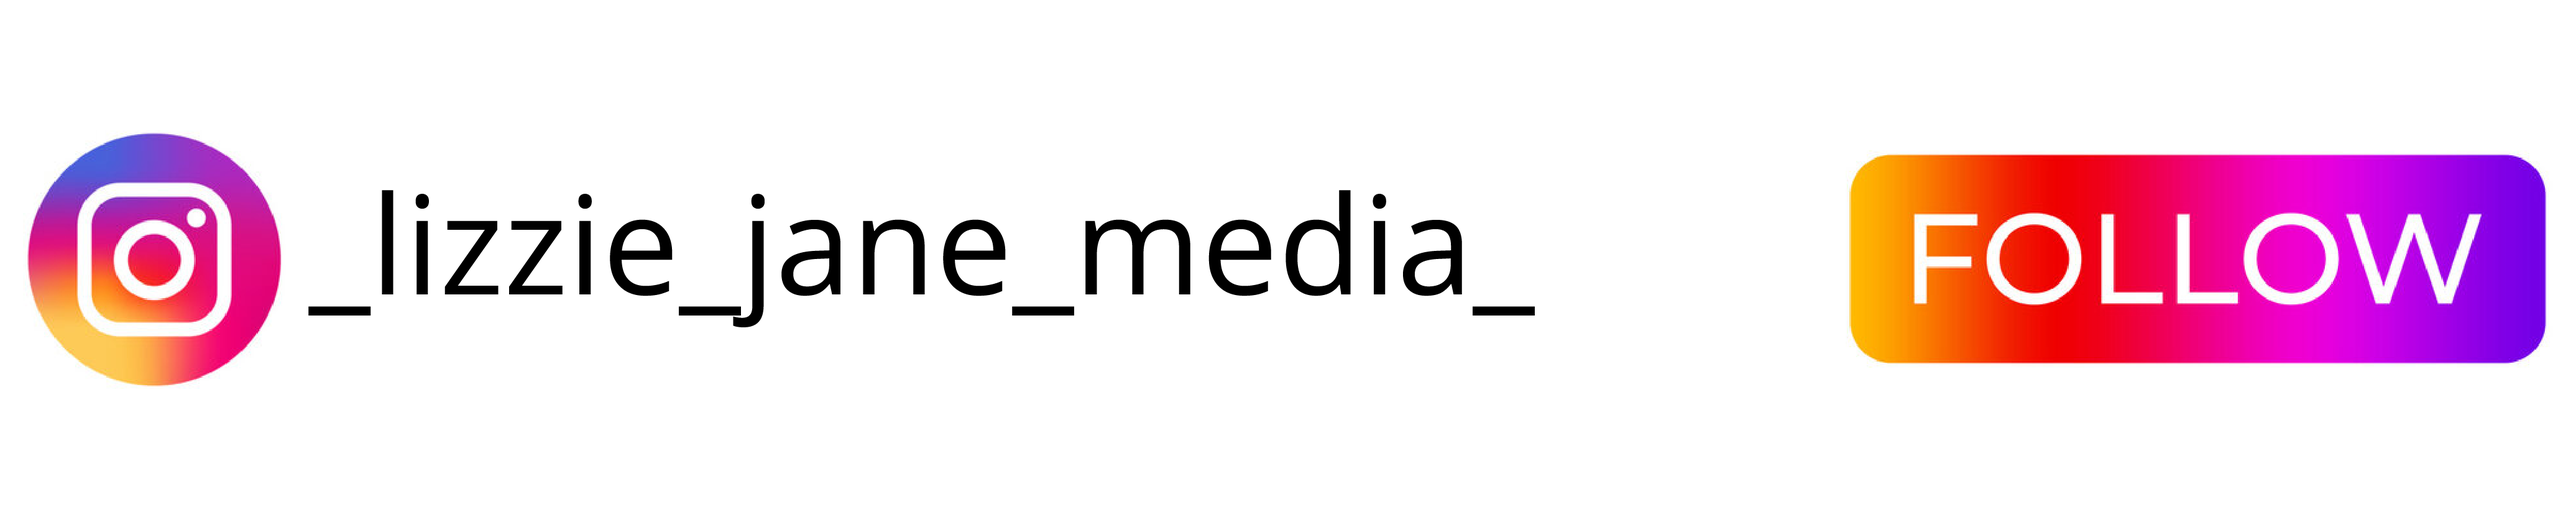
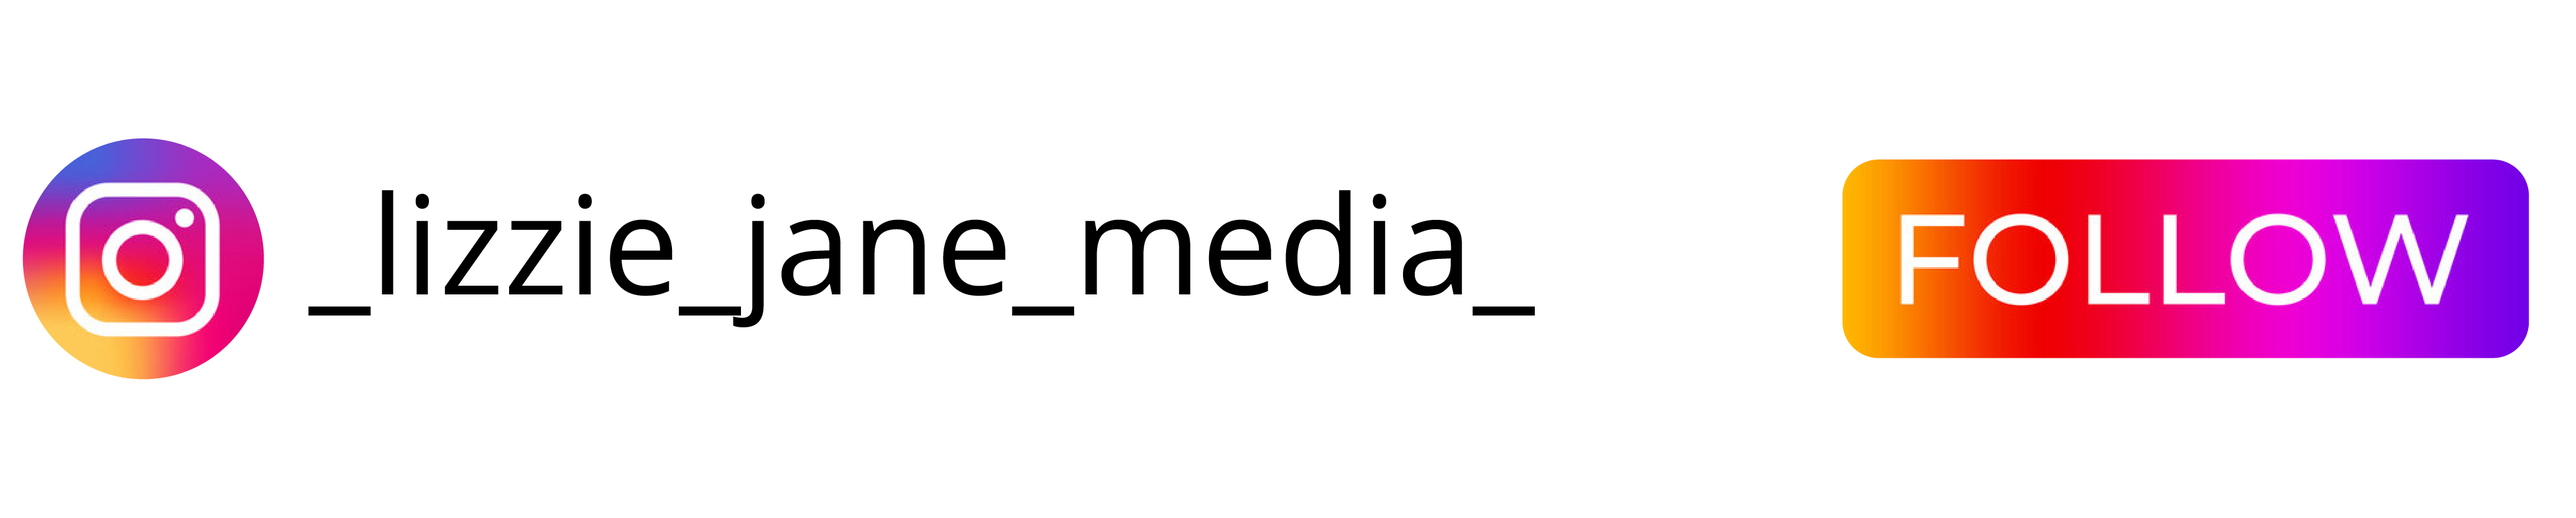
e

Changed region(s): [[0.716, 0.2806, 0.9961, 0.717], [0.0, 0.2494, 0.1245, 0.7482]]

diff --git a/index.html b/index.html
@@ -77,7 +77,8 @@
 
 	<div class="section section-contact m-md-5 px-md-5">
 		<div class="container">
-			<a href="https://www.instagram.com/_lizzie_jane_media_"><img src="images/insta.png" alt="Instagram"></a>
+			<h2  class="instagram-heading"> Follow me on Instagram!</h2>
+			<a href="https://www.instagram.com/_lizzie_jane_media_"><img src="images/insta.png" alt="Instagram" class="img-fluid mb-3" style="width:600px;"></a>
 				<!-- SnapWidget -->
 <script src="https://snapwidget.com/js/snapwidget.js"></script>
 <iframe src="https://snapwidget.com/embed/1094666" class="snapwidget-widget" allowtransparency="true" frameborder="0" scrolling="no" style="border:none; overflow:hidden;  width:100%; " title="Posts from Instagram"></iframe>

diff --git a/css/style.css b/css/style.css
@@ -9836,3 +9836,16 @@ a {
       .site-footer .social li a:hover {
         background: #000;
         color: #fff; }
+
+        .instagram-heading {
+          font-family: 'Playfair Display', serif; /* You already load this font */
+          font-size: 2.5rem; /* Bigger */
+          font-weight: 700; /* Bold */
+          text-transform: uppercase; /* Makes it all caps */
+          letter-spacing: 1px; /* Adds space between letters */
+          margin-bottom: 30px;
+        }
+
+        body {
+          background-color: #9CAF88; /* Sage green or any color you want */
+        }
